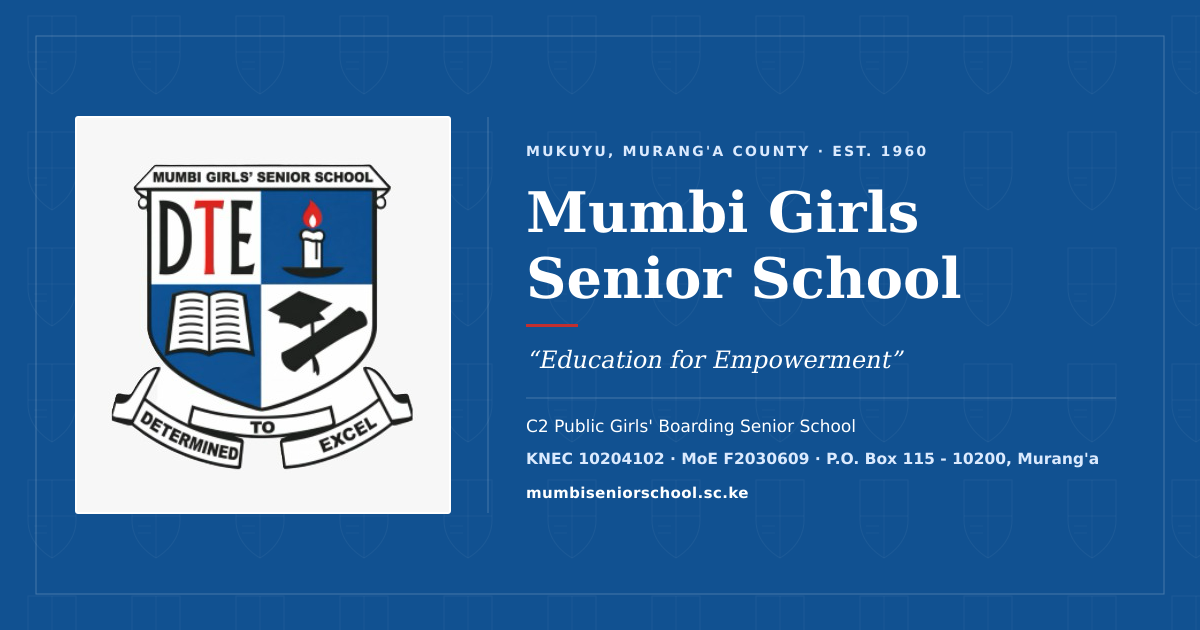
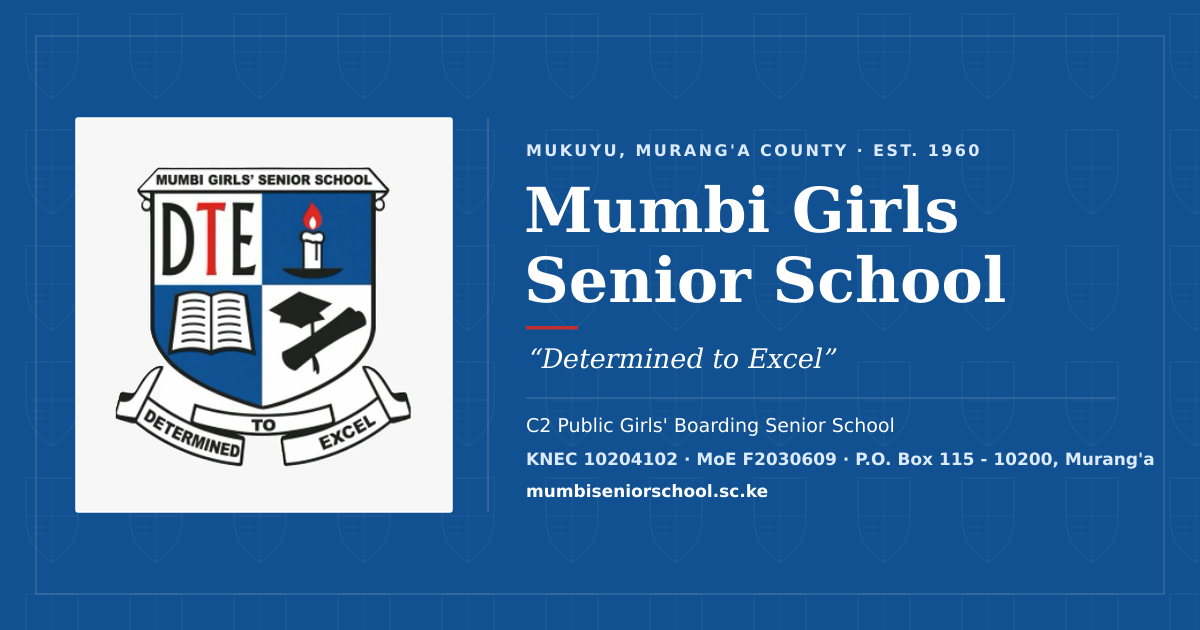
Update official motto to Determined to Excel and fix mobile hero crest
- Replace 'Education for Empowerment' with the confirmed official motto
  'Determined to Excel' across schoolInfo (hero, home charter, about page,
  footer), page/root/OG/Twitter metadata, manifest description, og-image.png,
  and README.md
- Ensure the hero crest displays in full with clear spacing below the sticky
  header across 360px, 390px, 768px, and 1280px viewports: add
  scroll-padding-top and data-scroll-behavior on <html>, remove h-full and
  root overflow-x: clip in favour of min-h-dvh + shrink-0 header/main flex
  sizing, stabilise TopUtilityBar height (with safe-area-inset-top), and use
  explicit top padding plus aspect-ratio-preserved quality=95 crest rendering
- Bump service worker shell cache to mumbi-portal-shell-v5

diff --git a/src/app/layout.tsx b/src/app/layout.tsx
@@ -56,7 +56,7 @@ export const metadata: Metadata = {
     template: `%s | ${SITE_NAME}`,
   },
   description:
-    "Mumbi Girls Senior School — C2 public girls' boarding senior school in Mukuyu Sub-location, Kiharu Constituency, Murang'a County, established in 1960. KNEC 10204102, MoE F2030609.",
+    "Mumbi Girls Senior School — Determined to Excel. C2 public girls' boarding senior school in Mukuyu Sub-location, Kiharu Constituency, Murang'a County, established in 1960. KNEC 10204102, MoE F2030609.",
   keywords: [
     'Mumbi Girls Senior School',
     'KNEC 10204102',
@@ -88,9 +88,9 @@ export const metadata: Metadata = {
     title: 'Mumbi Portal',
   },
   openGraph: {
-    title: `${SITE_NAME} | Education for Empowerment`,
+    title: `${SITE_NAME} | Determined to Excel`,
     description:
-      "C2 public girls' boarding senior school in Mukuyu, Kiharu, Murang'a County, Kenya. Established 1960. KNEC 10204102, MoE F2030609.",
+      "Determined to Excel — C2 public girls' boarding senior school in Mukuyu, Kiharu, Murang'a County, Kenya. Established 1960. KNEC 10204102, MoE F2030609.",
     url: SITE_URL,
     siteName: SITE_NAME,
     locale: 'en_KE',
@@ -99,9 +99,9 @@ export const metadata: Metadata = {
   },
   twitter: {
     card: 'summary_large_image',
-    title: `${SITE_NAME} | Education for Empowerment`,
+    title: `${SITE_NAME} | Determined to Excel`,
     description:
-      "Mumbi Girls Senior School, Mukuyu, Murang'a County (Est. 1960, KNEC 10204102). CBC Senior School pathways, circulars, and downloads.",
+      "Mumbi Girls Senior School — Determined to Excel. Mukuyu, Murang'a County (Est. 1960, KNEC 10204102). CBC Senior School pathways, circulars, and downloads.",
     images: [DEFAULT_OG_IMAGE.url],
   },
 };
@@ -114,9 +114,10 @@ export default function RootLayout({
   return (
     <html
       lang="en"
-      className={`${inter.variable} ${sourceSerif.variable} h-full antialiased font-sans`}
+      data-scroll-behavior="smooth"
+      className={`${inter.variable} ${sourceSerif.variable} antialiased font-sans`}
     >
-      <body className="min-h-full flex flex-col bg-slate-bg text-slate-800">
+      <body className="min-h-dvh flex flex-col bg-slate-bg text-slate-800">
         <PwaProvider>
           {/* Keyboard Skip-to-Content Link */}
           <a
@@ -129,7 +130,7 @@ export default function RootLayout({
           {/* Unified Sticky Utility Bar + Primary Header */}
           <header
             data-dark-surface
-            className="sticky top-0 z-40 border-b border-primary-dark"
+            className="sticky top-0 z-40 shrink-0 w-full bg-primary border-b border-primary-dark"
           >
             <TopUtilityBar />
             <Header />
@@ -138,7 +139,7 @@ export default function RootLayout({
           <main
             id="main-content"
             tabIndex={-1}
-            className="flex-1 focus:outline-none"
+            className="relative z-0 grow shrink-0 w-full overflow-x-clip scroll-mt-28 focus:outline-none"
           >
             {children}
           </main>

diff --git a/src/components/home/CampusHero.tsx b/src/components/home/CampusHero.tsx
@@ -29,9 +29,9 @@ export default function CampusHero() {
     <section
       data-dark-surface
       aria-labelledby="school-hero-heading"
-      className="bg-crest-pattern text-white border-b border-primary-dark"
+      className="relative bg-crest-pattern text-white border-b border-primary-dark scroll-mt-28"
     >
-      <div className="max-w-7xl mx-auto px-4 sm:px-6 py-14 sm:py-20 lg:py-24">
+      <div className="max-w-7xl mx-auto px-4 sm:px-6 pt-12 pb-14 sm:pt-16 sm:pb-20 lg:pt-24 lg:pb-24">
         <div className="grid grid-cols-1 lg:grid-cols-12 gap-10 lg:gap-12 items-start lg:items-center">
           {/* Primary Identity Column */}
           <div
@@ -40,16 +40,17 @@ export default function CampusHero() {
             }
           >
             {/* Official Crest + Provenance */}
-            <div className="flex flex-col sm:flex-row sm:items-start gap-5 sm:gap-7">
-              <div className="w-28 sm:w-32 md:w-36 shrink-0 rounded-xs bg-[#f7f7f7] p-2.5 border border-white">
+            <div className="flex flex-col sm:flex-row items-start gap-5 sm:gap-7">
+              <div className="self-start shrink-0 w-32 sm:w-36 md:w-38 rounded-xs bg-[#f7f7f7] p-2.5 sm:p-3 border border-white">
                 <Image
                   src="/images/mumbi-logo.png"
                   alt="Mumbi Girls' Senior School crest"
                   width={310}
                   height={316}
-                  sizes="(max-width: 640px) 92px, (max-width: 768px) 108px, 124px"
+                  sizes="(max-width: 639px) 128px, 155px"
+                  quality={95}
                   priority
-                  className="w-full h-auto object-contain"
+                  className="block w-full h-auto aspect-[310/316] object-contain"
                 />
               </div>
 

diff --git a/src/components/layout/Header.tsx b/src/components/layout/Header.tsx
@@ -451,6 +451,11 @@ export default function Header() {
             {/* Official Crest + School Name */}
             <Link
               href="/"
+              onClick={() => {
+                if (pathname === '/') {
+                  window.scrollTo({ top: 0, behavior: 'smooth' });
+                }
+              }}
               className="flex items-center gap-3 min-w-0 py-1 rounded-xs"
             >
               <Image
@@ -458,7 +463,8 @@ export default function Header() {
                 alt="Mumbi Girls' Senior School crest"
                 width={44}
                 height={45}
-                sizes="44px"
+                sizes="64px"
+                quality={95}
                 priority
                 className="w-10 h-10 sm:w-11 sm:h-11 rounded-xs bg-[#f7f7f7] p-0.5 object-contain shrink-0 border border-white/80"
               />

diff --git a/src/components/layout/Footer.tsx b/src/components/layout/Footer.tsx
@@ -36,7 +36,7 @@ export default function Footer() {
   return (
     <footer
       data-dark-surface
-      className="bg-primary-dark text-white border-t border-primary"
+      className="shrink-0 w-full overflow-x-clip bg-primary-dark text-white border-t border-primary"
     >
       <div className="max-w-7xl mx-auto px-4 sm:px-6 py-14 sm:py-16">
         <div className="grid grid-cols-1 sm:grid-cols-2 lg:grid-cols-12 gap-10 lg:gap-8">
@@ -48,7 +48,8 @@ export default function Footer() {
                 alt="Mumbi Girls' Senior School crest"
                 width={54}
                 height={55}
-                sizes="54px"
+                sizes="64px"
+                quality={95}
                 className="w-13 h-13 rounded-xs bg-[#f7f7f7] p-1 object-contain shrink-0 border border-white/80"
               />
               <div>

diff --git a/src/app/page.tsx b/src/app/page.tsx
@@ -11,7 +11,7 @@ import { buildPageMetadata } from '@/lib/site';
 export const metadata: Metadata = buildPageMetadata({
   title: 'Mumbi Girls Senior School',
   description:
-    "Mumbi Girls Senior School — C2 public girls' boarding senior school in Mukuyu Sub-location, Kiharu Constituency, Murang'a County, established in 1960 (KNEC 10204102, MoE F2030609). CBC Senior School pathways, KCSE results, student life, circulars, and downloads.",
+    "Mumbi Girls Senior School — Determined to Excel. C2 public girls' boarding senior school in Mukuyu Sub-location, Kiharu Constituency, Murang'a County, established in 1960 (KNEC 10204102, MoE F2030609). CBC Senior School pathways, KCSE results, student life, circulars, and downloads.",
   path: '/',
 });
 

diff --git a/src/components/layout/TopUtilityBar.tsx b/src/components/layout/TopUtilityBar.tsx
@@ -9,8 +9,8 @@ export default function TopUtilityBar() {
   const { canNativeInstall, triggerNativeInstall } = usePwa();
 
   return (
-    <div className="bg-primary-dark text-white text-xs border-b border-white/15">
-      <div className="max-w-7xl mx-auto px-4 sm:px-6 py-1.5 flex items-center justify-between gap-3">
+    <div className="bg-primary-dark text-white text-xs border-b border-white/15 pt-[env(safe-area-inset-top)]">
+      <div className="max-w-7xl mx-auto px-4 sm:px-6 min-h-9 py-1 flex items-center justify-between gap-3">
         {/* Left: Official school registry details */}
         <div className="flex items-center gap-2.5 min-w-0 text-white/90 tabular-nums">
           <span className="font-medium text-white shrink-0">

diff --git a/src/lib/site.ts b/src/lib/site.ts
@@ -6,7 +6,7 @@ export const DEFAULT_OG_IMAGE = {
   url: '/images/og-image.png',
   width: 1200,
   height: 630,
-  alt: "Mumbi Girls' Senior School crest and official banner — Education for Empowerment (KNEC 10204102)",
+  alt: "Mumbi Girls' Senior School crest and official banner — Determined to Excel (KNEC 10204102)",
 };
 
 interface PageMetadataOptions {
@@ -28,7 +28,7 @@ export function buildPageMetadata({
 }: PageMetadataOptions): Metadata {
   const fullTitle =
     path === '/'
-      ? `${SITE_NAME} | Education for Empowerment`
+      ? `${SITE_NAME} | Determined to Excel`
       : `${title} | ${SITE_NAME}`;
   const canonicalUrl = new URL(path, SITE_URL).toString();
 

diff --git a/src/app/about/page.tsx b/src/app/about/page.tsx
@@ -12,7 +12,7 @@ import { buildPageMetadata } from '@/lib/site';
 export const metadata: Metadata = buildPageMetadata({
   title: 'About the School',
   description:
-    "History of Mumbi Girls Senior School since 1960, motto, mission, vision, core values, English and Kiswahili school anthems, roll of principals, BOM chairpersons, and student council governance in Mukuyu, Murang'a County.",
+    "History of Mumbi Girls Senior School since 1960, official motto (Determined to Excel), mission, vision, core values, English and Kiswahili school anthems, roll of principals, BOM chairpersons, and student council governance in Mukuyu, Murang'a County.",
   path: '/about',
 });
 

diff --git a/src/data/mock-school-data.ts b/src/data/mock-school-data.ts
@@ -24,9 +24,7 @@ import {
 // ── School Profile ──────────────────────────────────────────
 export const schoolInfo: SchoolInfo = {
   name: 'Mumbi Girls Senior School',
-  // NOTE: Kept as recorded in project data. The official crest reads
-  // "Determined to Excel" — flagged for client confirmation before changing.
-  motto: 'Education for Empowerment',
+  motto: 'Determined to Excel',
   mission:
     'To provide a holistic, inclusive, and quality education that empowers girls to become competent, ethical, and transformative leaders in a dynamic global society.',
   vision:

diff --git a/src/app/manifest.ts b/src/app/manifest.ts
@@ -6,7 +6,7 @@ export default function manifest(): MetadataRoute.Manifest {
     name: 'Mumbi Girls Senior School Portal',
     short_name: 'Mumbi Portal',
     description:
-      'Official website and resource portal for Mumbi Girls Senior School — CBC Senior School pathways, circulars, downloads, news, gallery, and campus information.',
+      'Official website and resource portal for Mumbi Girls Senior School — Determined to Excel. CBC Senior School pathways, circulars, downloads, news, gallery, and campus information.',
     start_url: '/',
     scope: '/',
     display: 'standalone',

diff --git a/src/app/globals.css b/src/app/globals.css
@@ -40,9 +40,12 @@
 @layer base {
   html {
     scroll-behavior: smooth;
+    /* Reserve space for the sticky TopUtilityBar + Header on anchor jumps and
+       Next.js App Router route transitions so the hero crest never sits behind
+       the sticky header on mobile or desktop. */
+    scroll-padding-top: 6.75rem;
     -webkit-font-smoothing: antialiased;
     -moz-osx-font-smoothing: grayscale;
-    overflow-x: clip;
   }
 
   body {
@@ -52,7 +55,6 @@
     color: #1e293b;
     background-color: #F8FAFC;
     line-height: 1.65;
-    overflow-x: clip;
   }
 
   h1,

diff --git a/next.config.ts b/next.config.ts
@@ -4,6 +4,9 @@ const nextConfig: NextConfig = {
   /* config options here */
   cacheComponents: true,
   partialPrefetching: true,
+  images: {
+    qualities: [75, 95],
+  },
   turbopack: {
     rules: {
       "*.css": {
